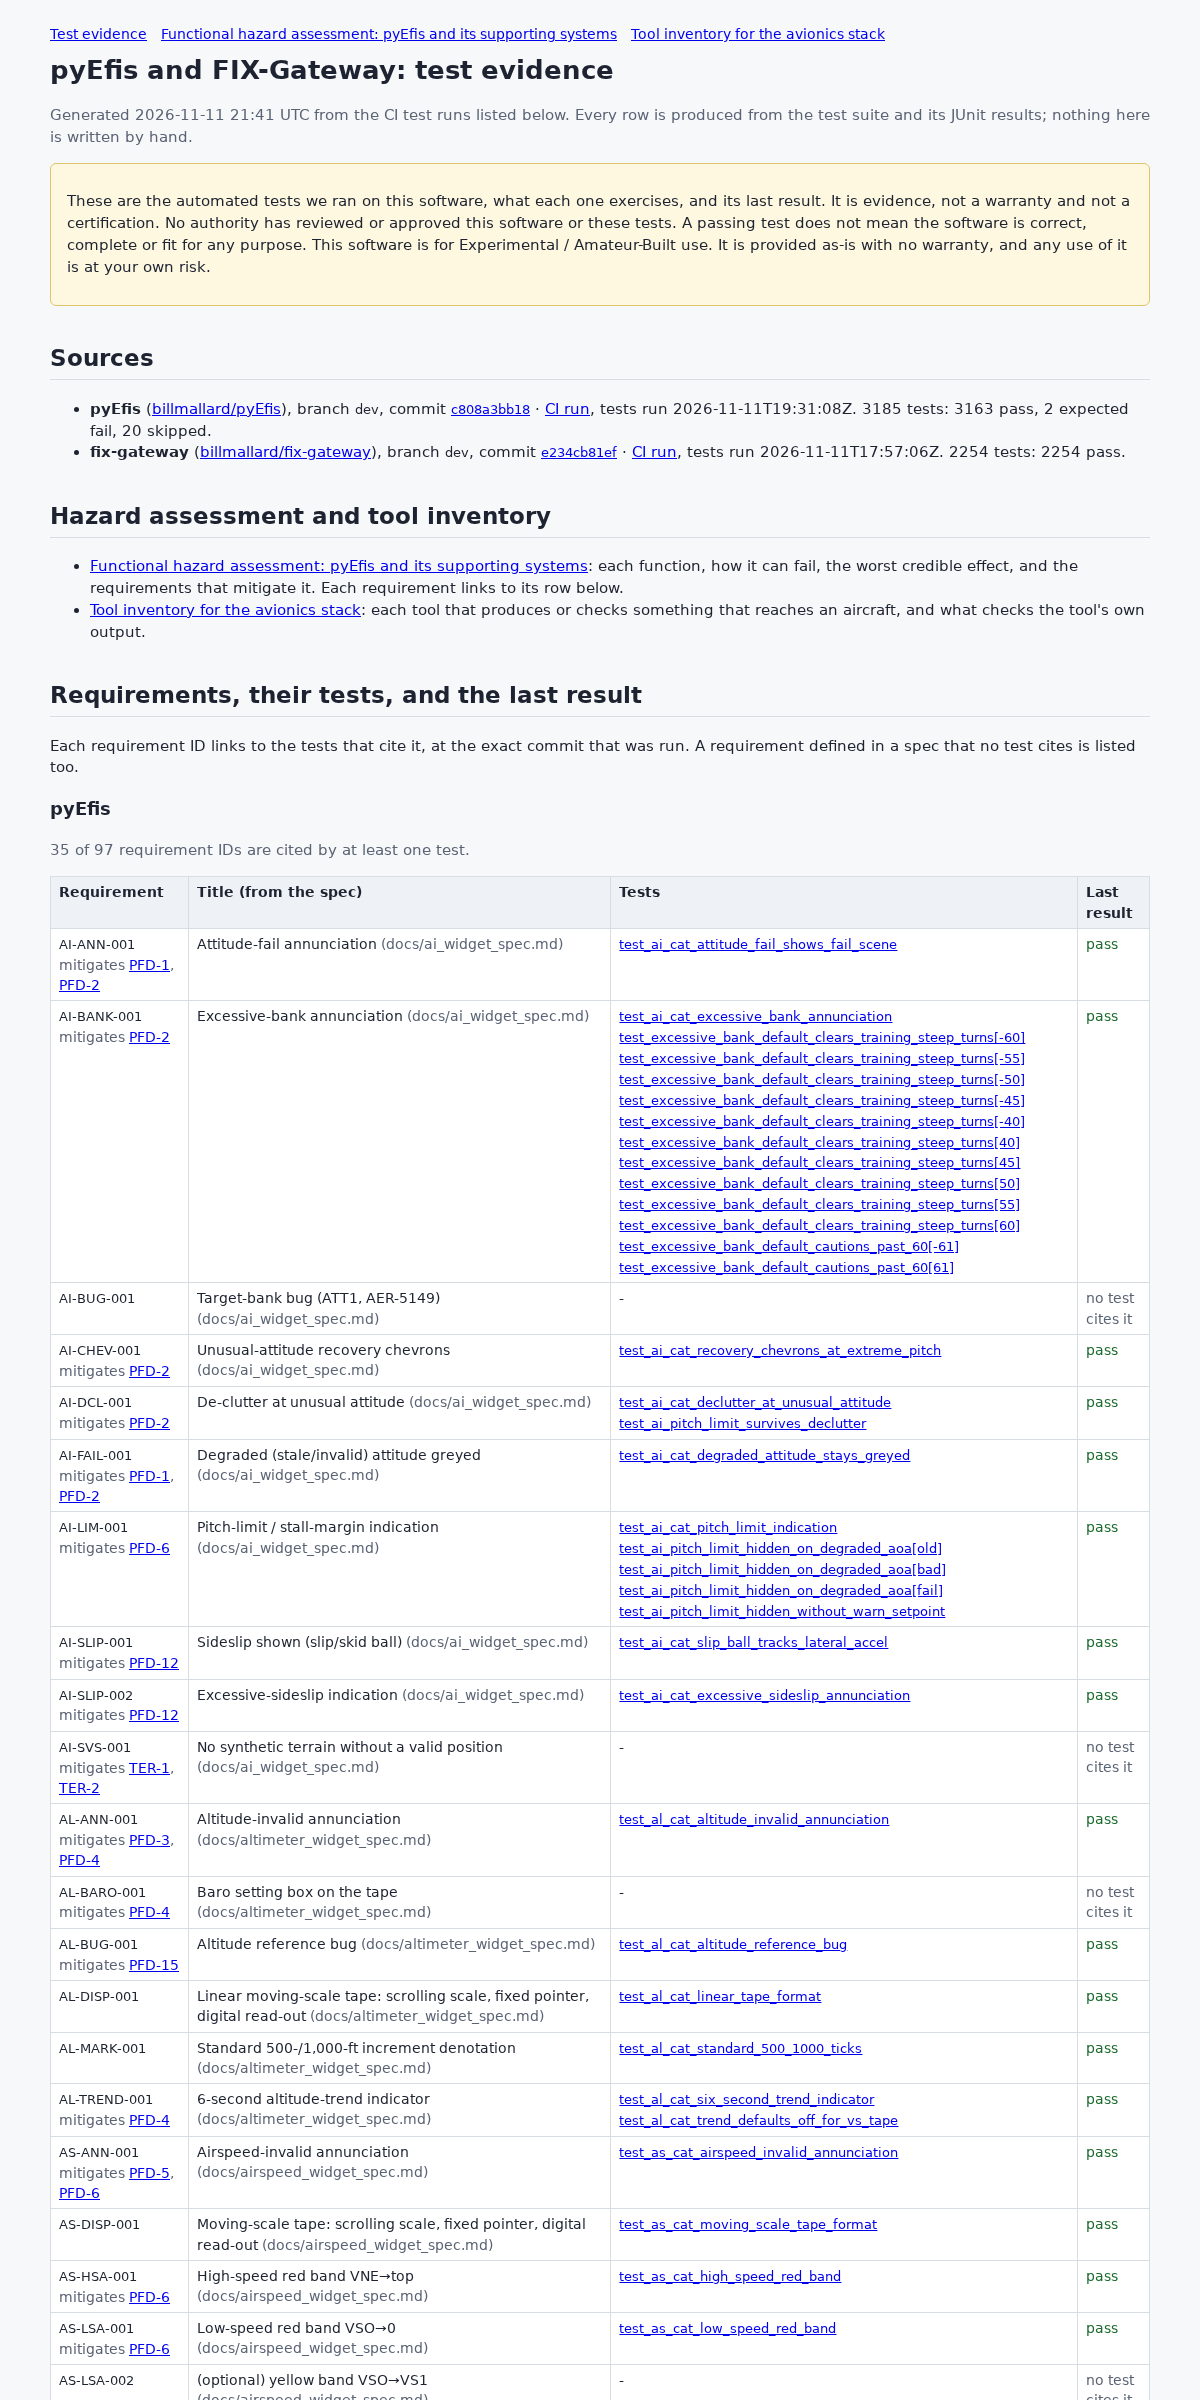
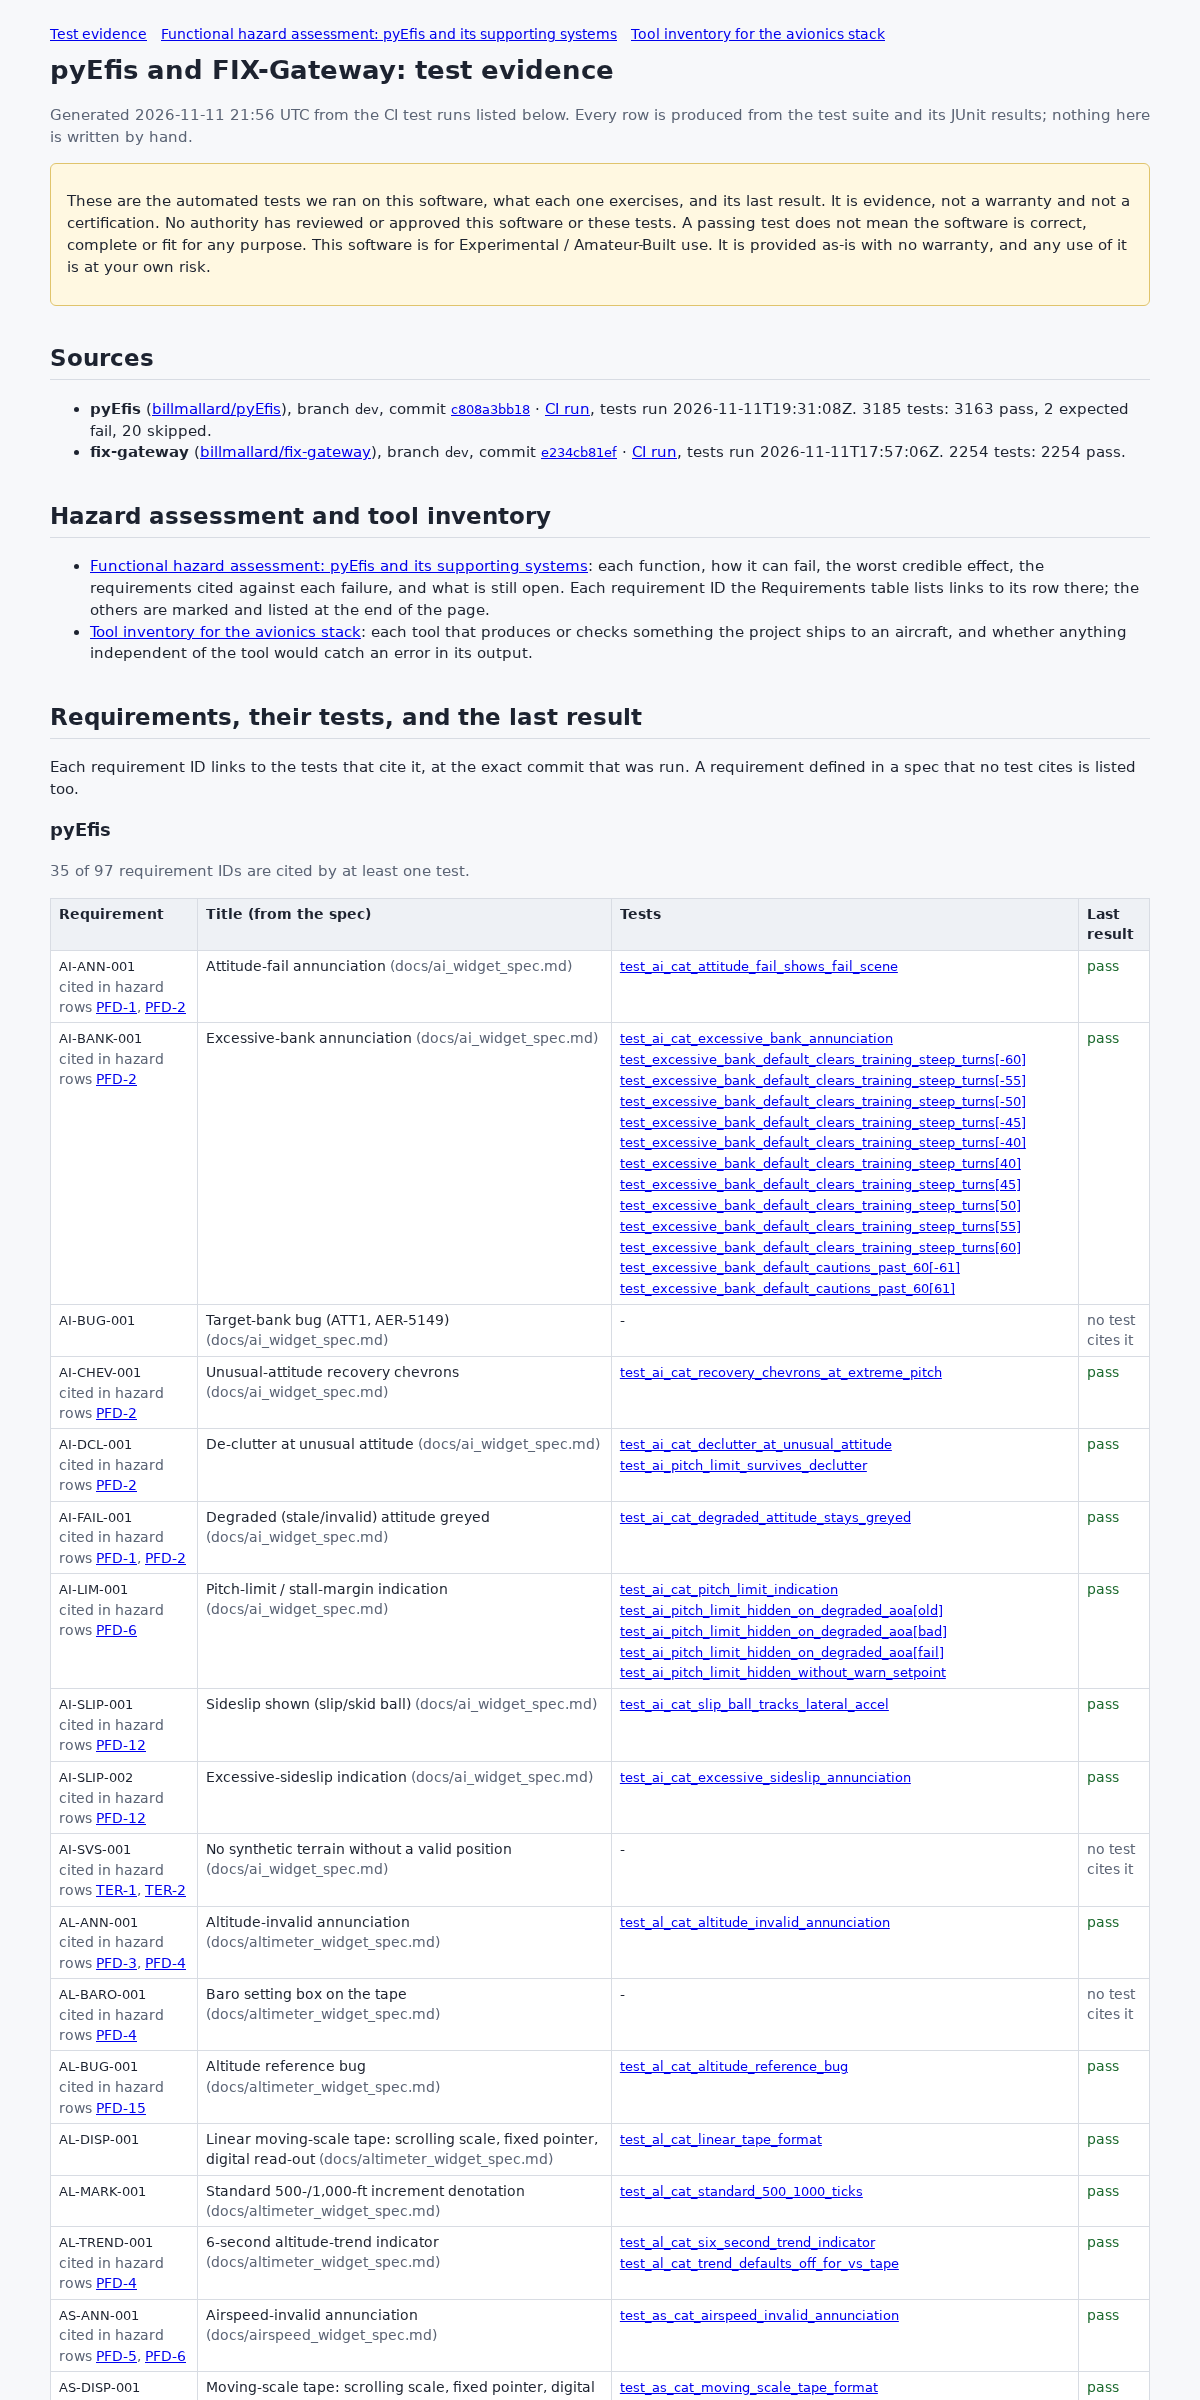
docs: CERT18b renders after the wording review

diff --git a/docs/images/aer5413_safety_pages/README.md b/docs/images/aer5413_safety_pages/README.md
@@ -5,7 +5,7 @@ latest successful `dev` CI records of pyEfis and fix-gateway (the `test-results`
 then screenshotted at 1200 px wide with Playwright's headless Chrome.
 
 - `index.png`: the top of `index.html`. The link bar, the new "Hazard assessment and tool
-  inventory" section, and Requirements rows carrying "mitigates PFD-n" back-links.
+  inventory" section, and Requirements rows carrying "cited in hazard rows PFD-n" back-links.
 - `hazard_assessment.png`: `hazard_assessment.html`, the first 5200 px. Requirement IDs link
   to their Requirements rows; IDs the table does not list are underlined with dots.
 - `tool_inventory.png`: `tool_inventory.html`, the first 4300 px.
